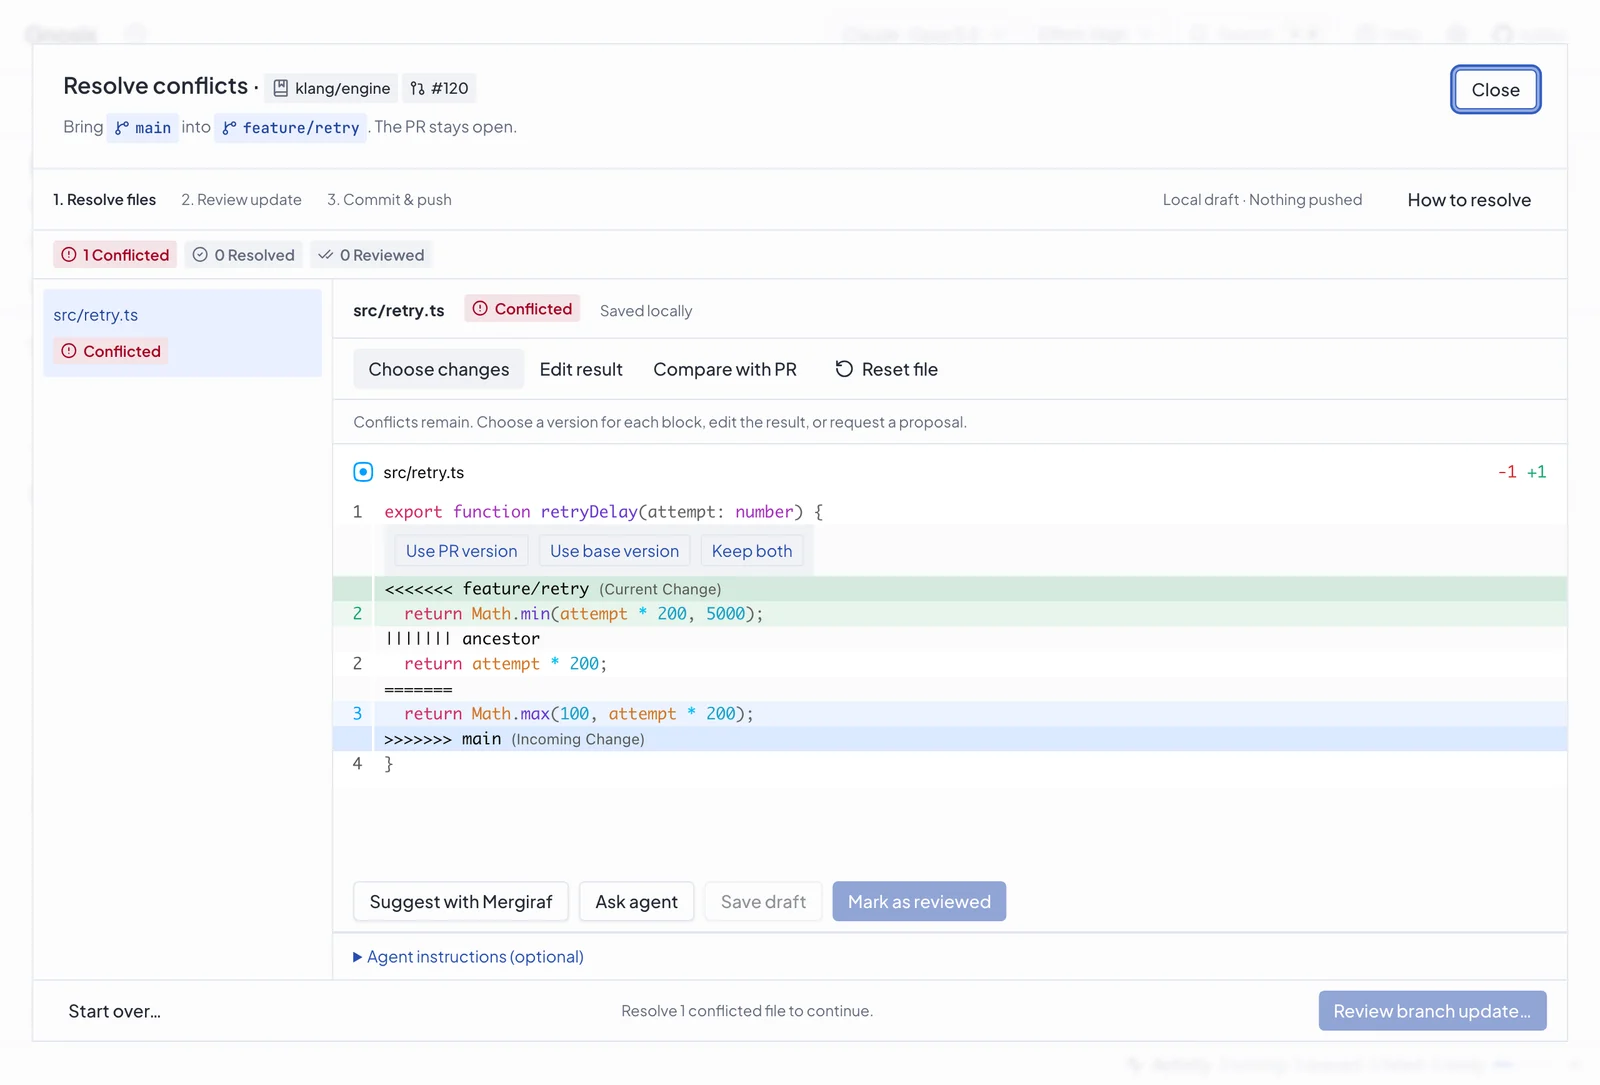
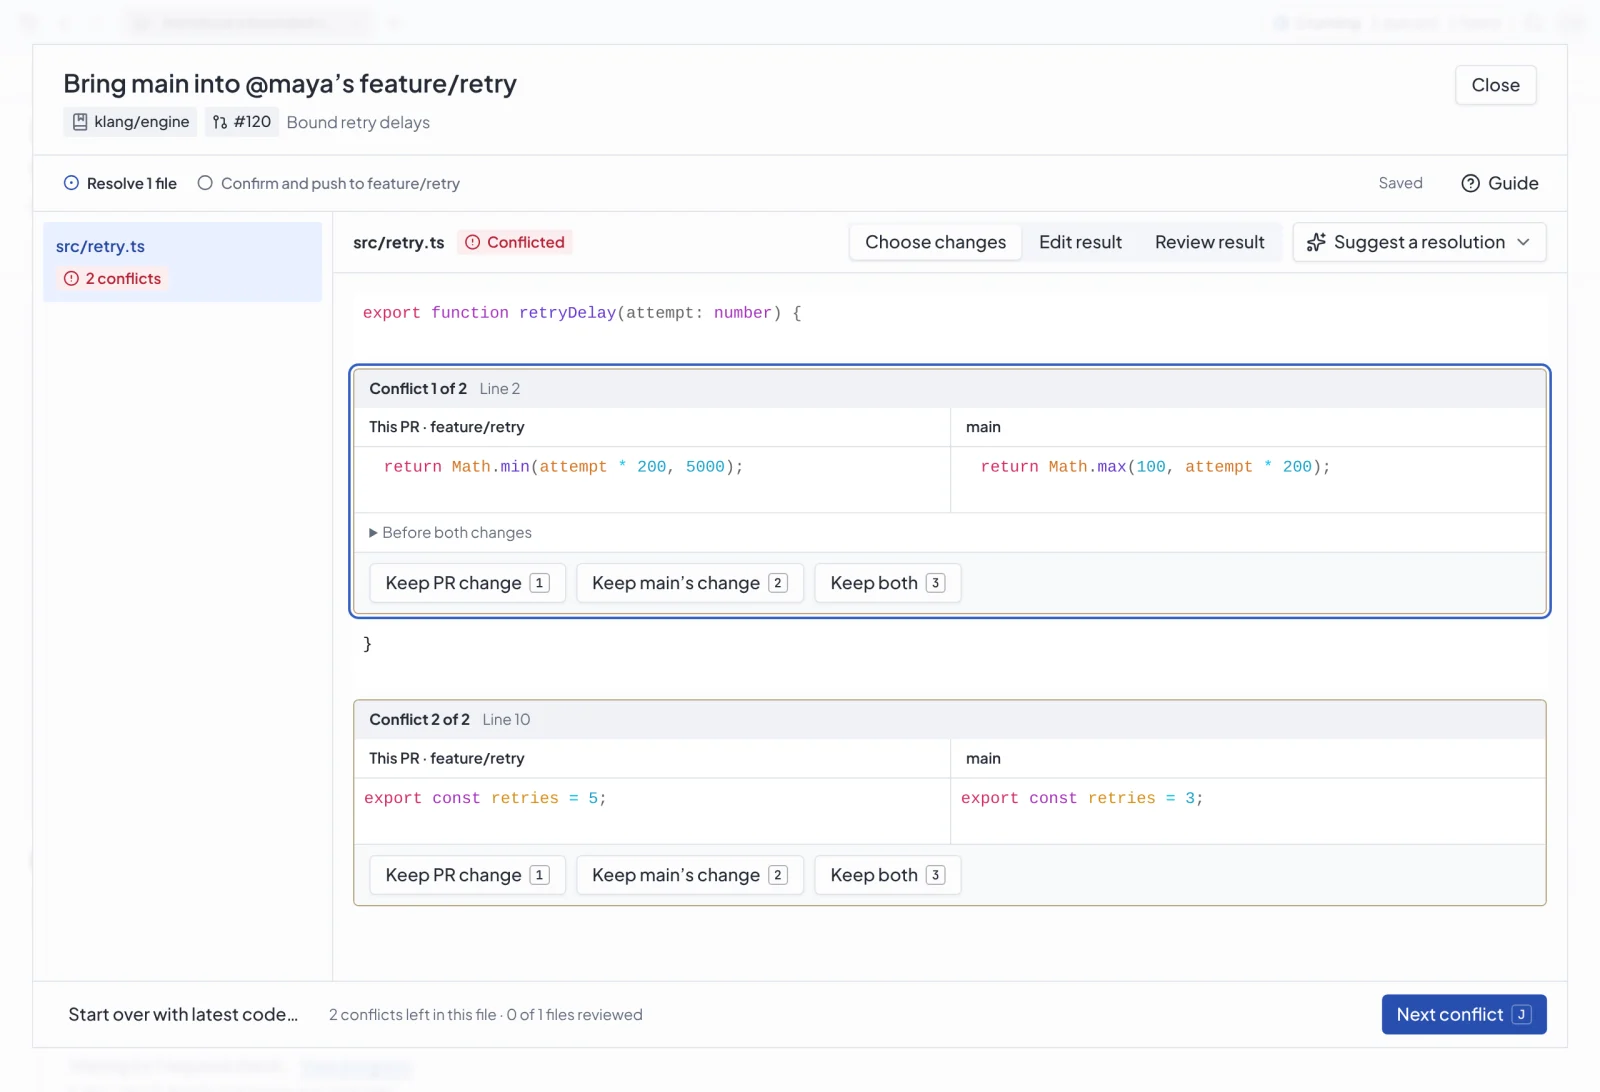
Present notifications, the menu bar panel and the redesigned conflict flow on gnosis.to
- New "Know when a PR needs you" section after the opening: notifications, the macOS
  menu bar panel (shown under a plain menu bar strip with the real tray icon), and
  gnosis:// links with the Open in Gnosis extension, described as coming to the stores.
- Opening image: a fresh Review Queue capture with briefing chips and an in-app
  "Checks failed" notification; the intro and meta description mention notifications.
- Resolve conflicts tour panel: new capture and copy for Keep PR change / Keep main's
  change / Keep both, undo, one next step, and ~3 s preparation instead of ~50.
- Also included: merge-conflicts and briefing-status filters, predictive loading.
- Install: later updates install with Restart now.
- Captures come from synthetic fixtures in Docker at 2x, with GitHub avatar hosts blocked.
- Browser check asserts the section order, terms, and eager/lazy image loading.

diff --git a/site/src/styles/global.css b/site/src/styles/global.css
@@ -226,6 +226,11 @@ code {
   flex-wrap: wrap;
   gap: 4px 16px;
 }
+/* The opening capture has a notification in its lower right, so its enlarge control sits over the sidebar. */
+.product-intro .enlarge {
+  right: auto;
+  left: 14px;
+}
 .illustrated-example {
   margin-top: 40px;
   padding-top: 32px;
@@ -1441,5 +1446,144 @@ code {
   }
   .lane-facts {
     min-height: 38px;
+  }
+}
+
+.needs-you {
+  display: grid;
+  grid-template-columns: minmax(0, 1fr) minmax(0, 440px);
+  gap: 72px;
+  align-items: center;
+  padding-block: 56px;
+  border-top: 1px solid var(--line);
+}
+.needs-you-lead {
+  font-size: 17px;
+  line-height: 1.65;
+  max-width: 52ch;
+  margin-top: 16px;
+}
+.needs-you-list {
+  margin: 28px 0 0;
+}
+.needs-you-list > div {
+  padding-block: 18px;
+  border-top: 1px solid var(--line);
+}
+.needs-you-list dt {
+  font-size: 18px;
+  font-weight: 550;
+  letter-spacing: -0.02em;
+  margin-bottom: 6px;
+}
+.needs-you-list dt span {
+  margin-left: 8px;
+  padding: 2px 7px;
+  border: 1px solid var(--line);
+  border-radius: 4px;
+  font-size: 12px;
+  font-weight: 400;
+  letter-spacing: 0;
+  color: var(--muted);
+  vertical-align: 2px;
+}
+.needs-you-list dd {
+  margin: 0;
+  font-size: 15px;
+  line-height: 1.65;
+  color: var(--muted);
+  max-width: 62ch;
+}
+.needs-you-list code {
+  font-size: 0.9em;
+  color: var(--ink);
+}
+.menubar-scene {
+  border: 1px solid #c3cde0;
+  border-radius: 12px;
+  overflow: hidden;
+  background: #dce4f5;
+}
+.menubar-strip {
+  display: flex;
+  justify-content: center;
+  align-items: center;
+  height: 30px;
+  background: #f4f7fe;
+  border-bottom: 1px solid var(--line);
+}
+.menubar-item {
+  display: inline-flex;
+  align-items: center;
+  gap: 3px;
+  height: 22px;
+  padding: 0 8px 0 5px;
+  border-radius: 5px;
+  background: rgb(30 37 55 / 0.12);
+  font-size: 13px;
+  font-weight: 500;
+  font-variant-numeric: tabular-nums;
+}
+.menubar-item img {
+  width: 18px;
+  height: 18px;
+}
+.menubar-panel {
+  width: min(360px, calc(100% - 32px));
+  height: auto;
+  margin: 6px auto 36px;
+  border: 1px solid rgb(30 37 55 / 0.18);
+  border-radius: 10px;
+  background: var(--paper);
+}
+.menubar-shot figcaption {
+  display: flex;
+  flex-wrap: wrap;
+  justify-content: space-between;
+  gap: 4px 16px;
+  font-size: 13px;
+  margin-top: 13px;
+  color: var(--muted);
+}
+.menubar-shot figcaption span {
+  font-size: 12px;
+}
+@media (max-width: 1100px) {
+  .needs-you {
+    gap: 48px;
+    grid-template-columns: minmax(0, 1fr) minmax(0, 400px);
+  }
+}
+@media (max-width: 900px) {
+  .needs-you {
+    grid-template-columns: minmax(0, 1fr);
+    gap: 32px;
+  }
+  .menubar-shot {
+    max-width: 440px;
+  }
+}
+@media (max-width: 760px) {
+  .needs-you {
+    padding-block: 48px;
+  }
+  .needs-you-lead {
+    font-size: 16px;
+  }
+  .menubar-panel {
+    margin-bottom: 24px;
+  }
+  .menubar-shot figcaption {
+    display: block;
+    font-size: 12px;
+  }
+  .menubar-shot figcaption span {
+    display: block;
+    margin-top: 4px;
+  }
+}
+@media (max-width: 760px) {
+  .product-intro .enlarge {
+    left: 7px;
   }
 }

diff --git a/site/DESIGN.md b/site/DESIGN.md
@@ -172,7 +172,7 @@ components:
 
 The website presents Gnosis as an open-source tool, with a developer explaining its behavior to another developer. Feature names, factual captions, and plain installation instructions carry the content. Cool lavender surfaces, cobalt actions, and Onest type keep the presentation calm and technical.
 
-The product summary and real Review Queue screenshot introduce the application. The feature tour establishes its breadth before the illustrated explanations demonstrate one mechanism. Fine lines explain relationships. Motion shows a mechanism, while text and manual controls preserve its meaning without movement. Source, setup, and issue links make the project directly accessible.
+The product summary and real Review Queue screenshot introduce the application. A compact section then shows how Gnosis says when a PR needs you. The feature tour establishes its breadth before the illustrated explanations demonstrate one mechanism. Fine lines explain relationships. Motion shows a mechanism, while text and manual controls preserve its meaning without movement. Source, setup, and issue links make the project directly accessible.
 
 This system covers the website in `site/`. The repository root design files describe the desktop application. The source of visual values is `src/styles/global.css`, with behavior in `src/components/` and `src/scripts/`.
 
@@ -250,7 +250,7 @@ Feature titles use the `feature-title` role and become 23px on mobile. Feature d
 
 The shared frame has a maximum width of 1440px and horizontal padding of 56px. The stylesheet uses contextual spacing, not a universal spacing multiplier. Frontmatter records the recurring steps.
 
-The homepage opens with product copy and the Review Queue screenshot. The feature tour follows. Illustrated explanations then pair the guided review screenshot with the interactive example. Daily features, setup, and installation follow those sections.
+The homepage opens with product copy and the Review Queue screenshot. The "Know when a PR needs you" section and the feature tour follow. Illustrated explanations then pair the guided review screenshot with the interactive example. Daily features, setup, and installation follow those sections.
 
 The product introduction uses columns of `minmax(0, 0.36fr) minmax(0, 0.64fr)` with a 48px gap and centered vertical alignment. Copy occupies the narrower column. The introduction has 48px top padding and 24px bottom padding. Its body text uses 17px, line height 1.6, and a maximum width of 40ch.
 
@@ -346,6 +346,12 @@ Mobile tabs use centered text (12px), padding (12px 2px), and a minimum height (
 Without JavaScript, the labels link to stacked sections and every screenshot remains available. Enhancement adds tab and panel semantics, selects one panel, and gives only the selected tab a place in the Tab order. Left and Right wrap through tabs. Home and End select the first and last tabs. Space selects the focused tab. Panels accept keyboard focus.
 
 Feature fragments select the matching panel on initial load and hash changes. Modified clicks retain normal link behavior. Ordinary tab activation changes the panel without adding a history entry.
+
+### Know when a PR needs you
+
+A ruled section on the canvas pairs a short lead and three definition terms (Notifications, Menu bar panel, Open in Gnosis) with the menu bar panel capture. Columns use `minmax(0, 1fr) minmax(0, 440px)` with a 72px gap, 48px up to 1100px, and one column up to 900px. Terms use 18px weight 550; descriptions use 15px muted text. A small bordered tag marks the macOS-only panel.
+
+The panel capture is a 360pt popover, not a window. It sits under a plain 30px menu bar strip on a pale blue scene, centered beneath the app's real tray icon (`public/menubar-icon.png`) and a count in a selected pill. The strip is decorative and hidden from assistive technology. The panel keeps a fine border and 10px corners, with no shadow, and loads lazily at 360px/720px.
 
 ### Daily features
 

diff --git a/site/README.md b/site/README.md
@@ -24,6 +24,8 @@ The browser check also requires the root repository's dependencies (`npm ci` at 
 - Fonts are served locally as WOFF2 subsets. The English page loads only Latin and common UI symbols; extended characters load on demand. Source, verification, and regeneration instructions are in `fonts/README.md`. Onest’s license is in `public/fonts/`.
 - `DESIGN.md` and `.impeccable/design.json` describe the website system. The root design documents describe the desktop app.
 - App screenshots use synthetic test fixtures, not private repositories. Their `.webp.json` sidecars record source and conversion details. The screenshots were captured at commit `7d81c79` with `tests/workbench-browser.ts` (`queue-light` and `review-light`), then resized to 1600 and 960 pixels with WebP quality 86. Regenerate with `GNOSIS_SCREENSHOT_DIR=<directory> node scripts/test-workbench.mjs` at the repository root.
+- At commit `6f30649`, the opening Review Queue was refreshed from `--notifications` (`introduction-light`, with an in-app notification), Resolve conflicts from `--conflict-resolution` (`conflicts-light`), and the menu bar panel was added. The menu bar panel comes from the `sample-light` capture of `--menubar`, which uses only the synthetic `klang/engine` sample; it is 360pt wide, so it ships at 720 and 360 pixels.
+- To capture in Docker at 2x without network access (so no live GitHub avatars appear), build the image with `GNOSIS_DOCKER_IMAGE=gnosis-browser-tests-site`, then run the container with `--network none`, a mounted output folder linked to `.impeccable/review` (and `GNOSIS_SCREENSHOT_DIR` for the default run), and Electron launched with `--force-device-scale-factor=2 --enable-features=OverlayScrollbar`.
 
 ## Deployment
 
